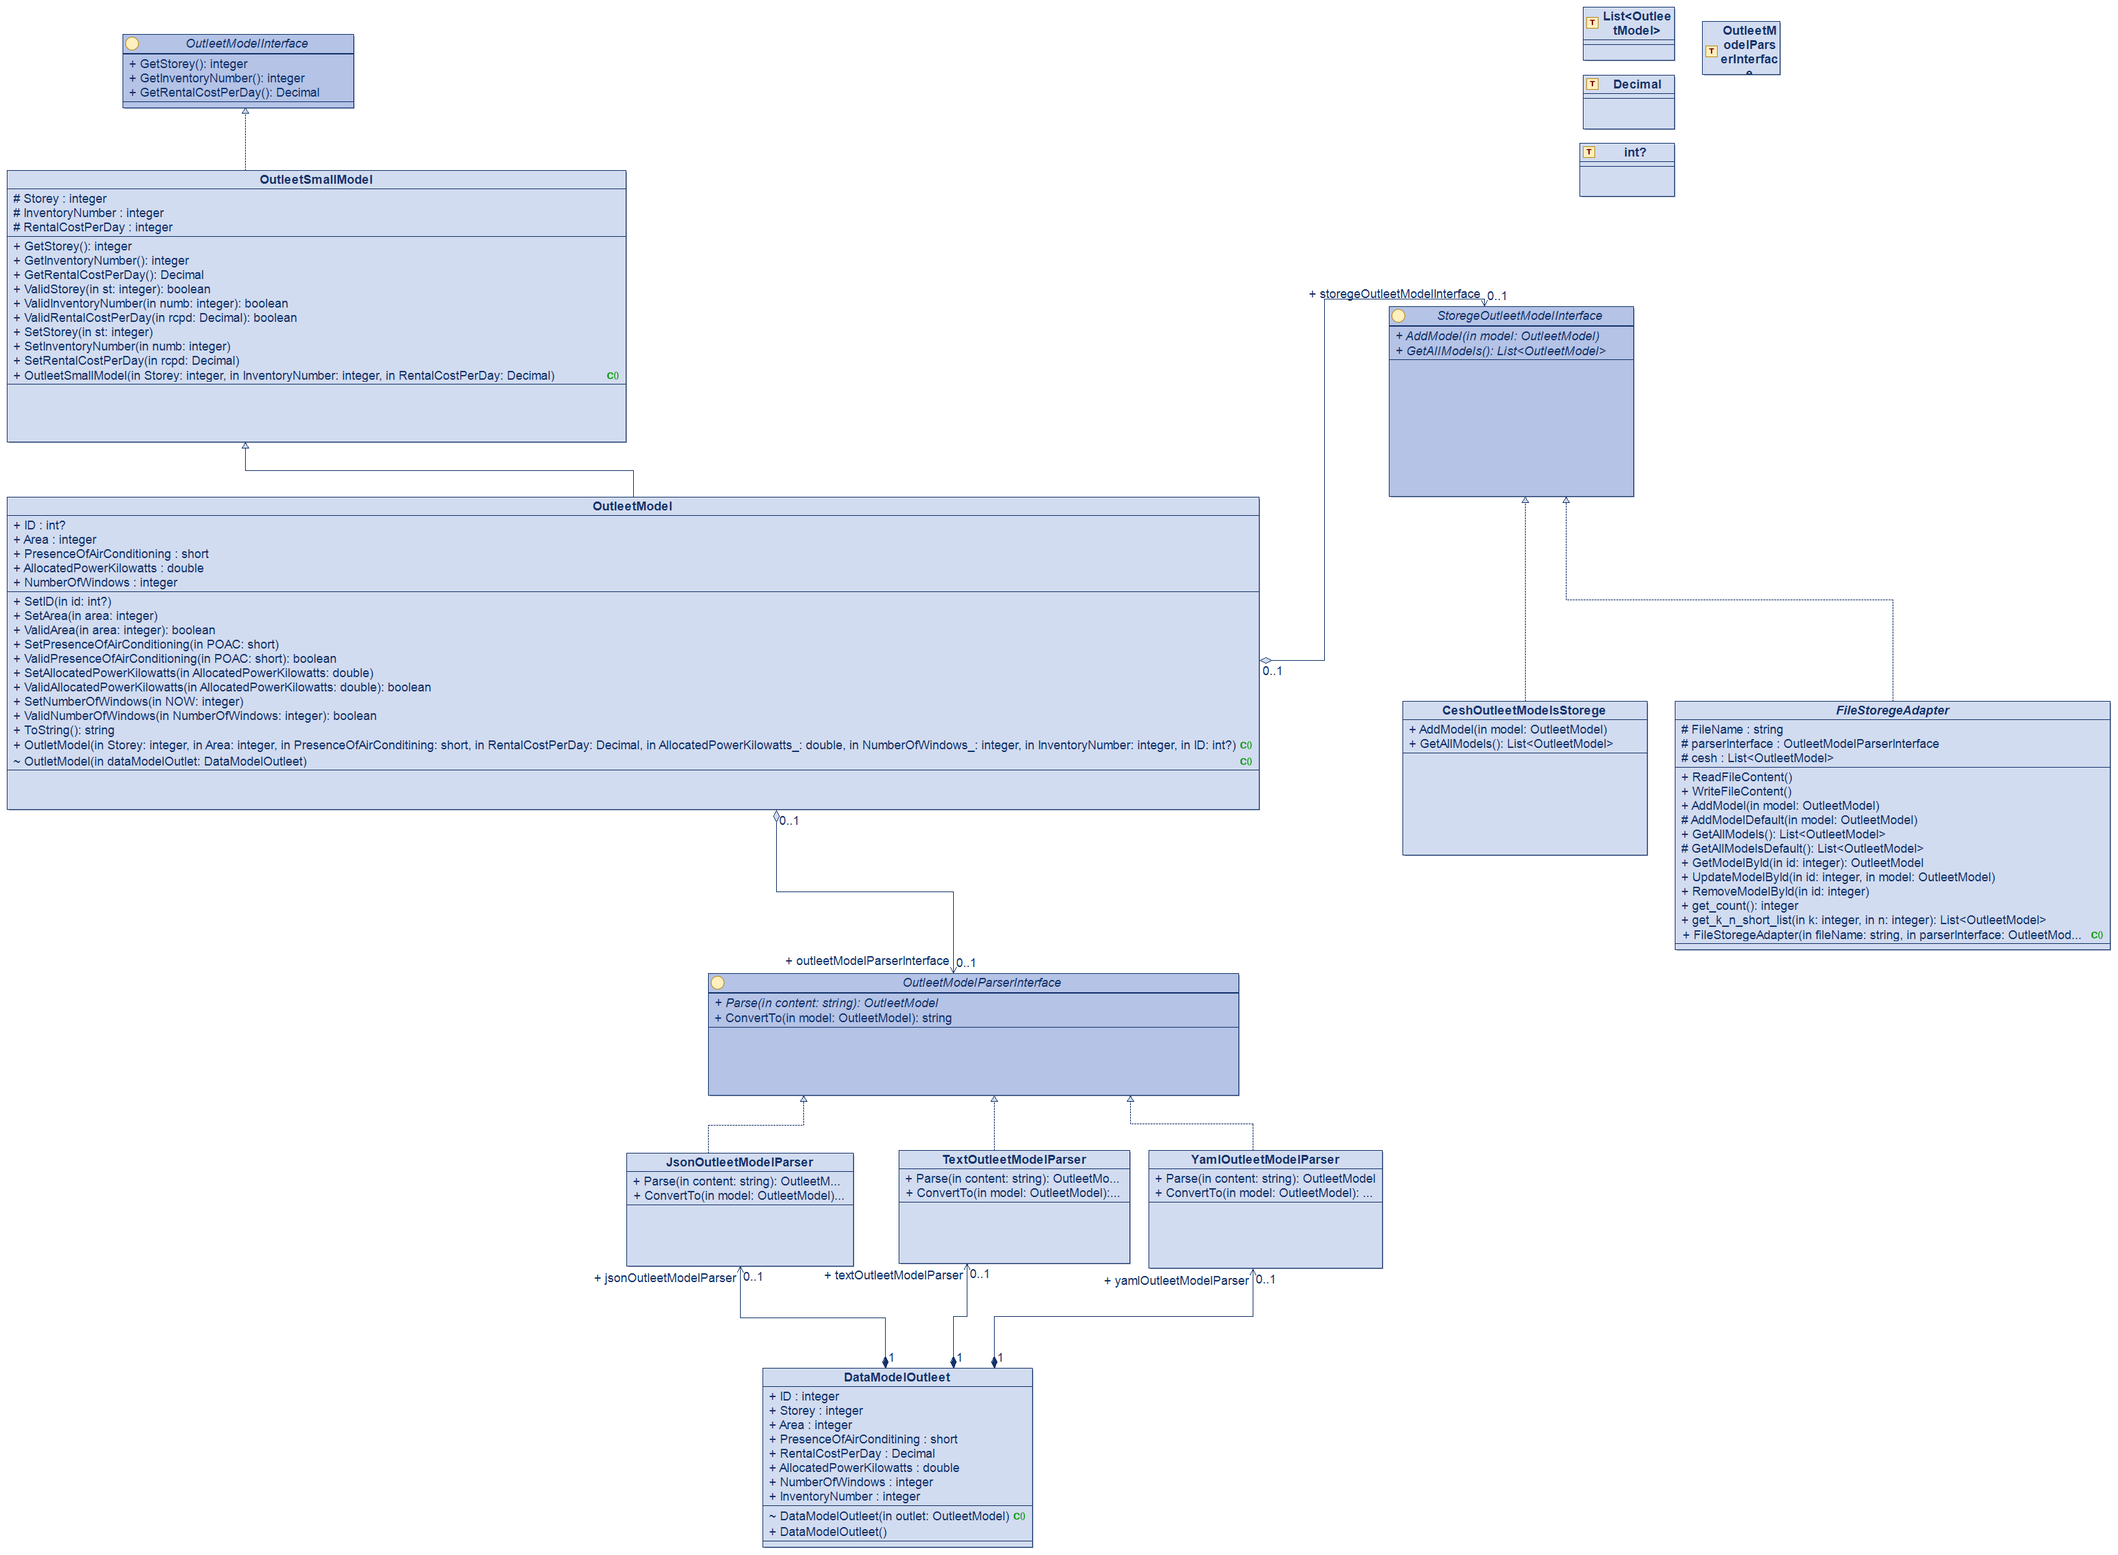
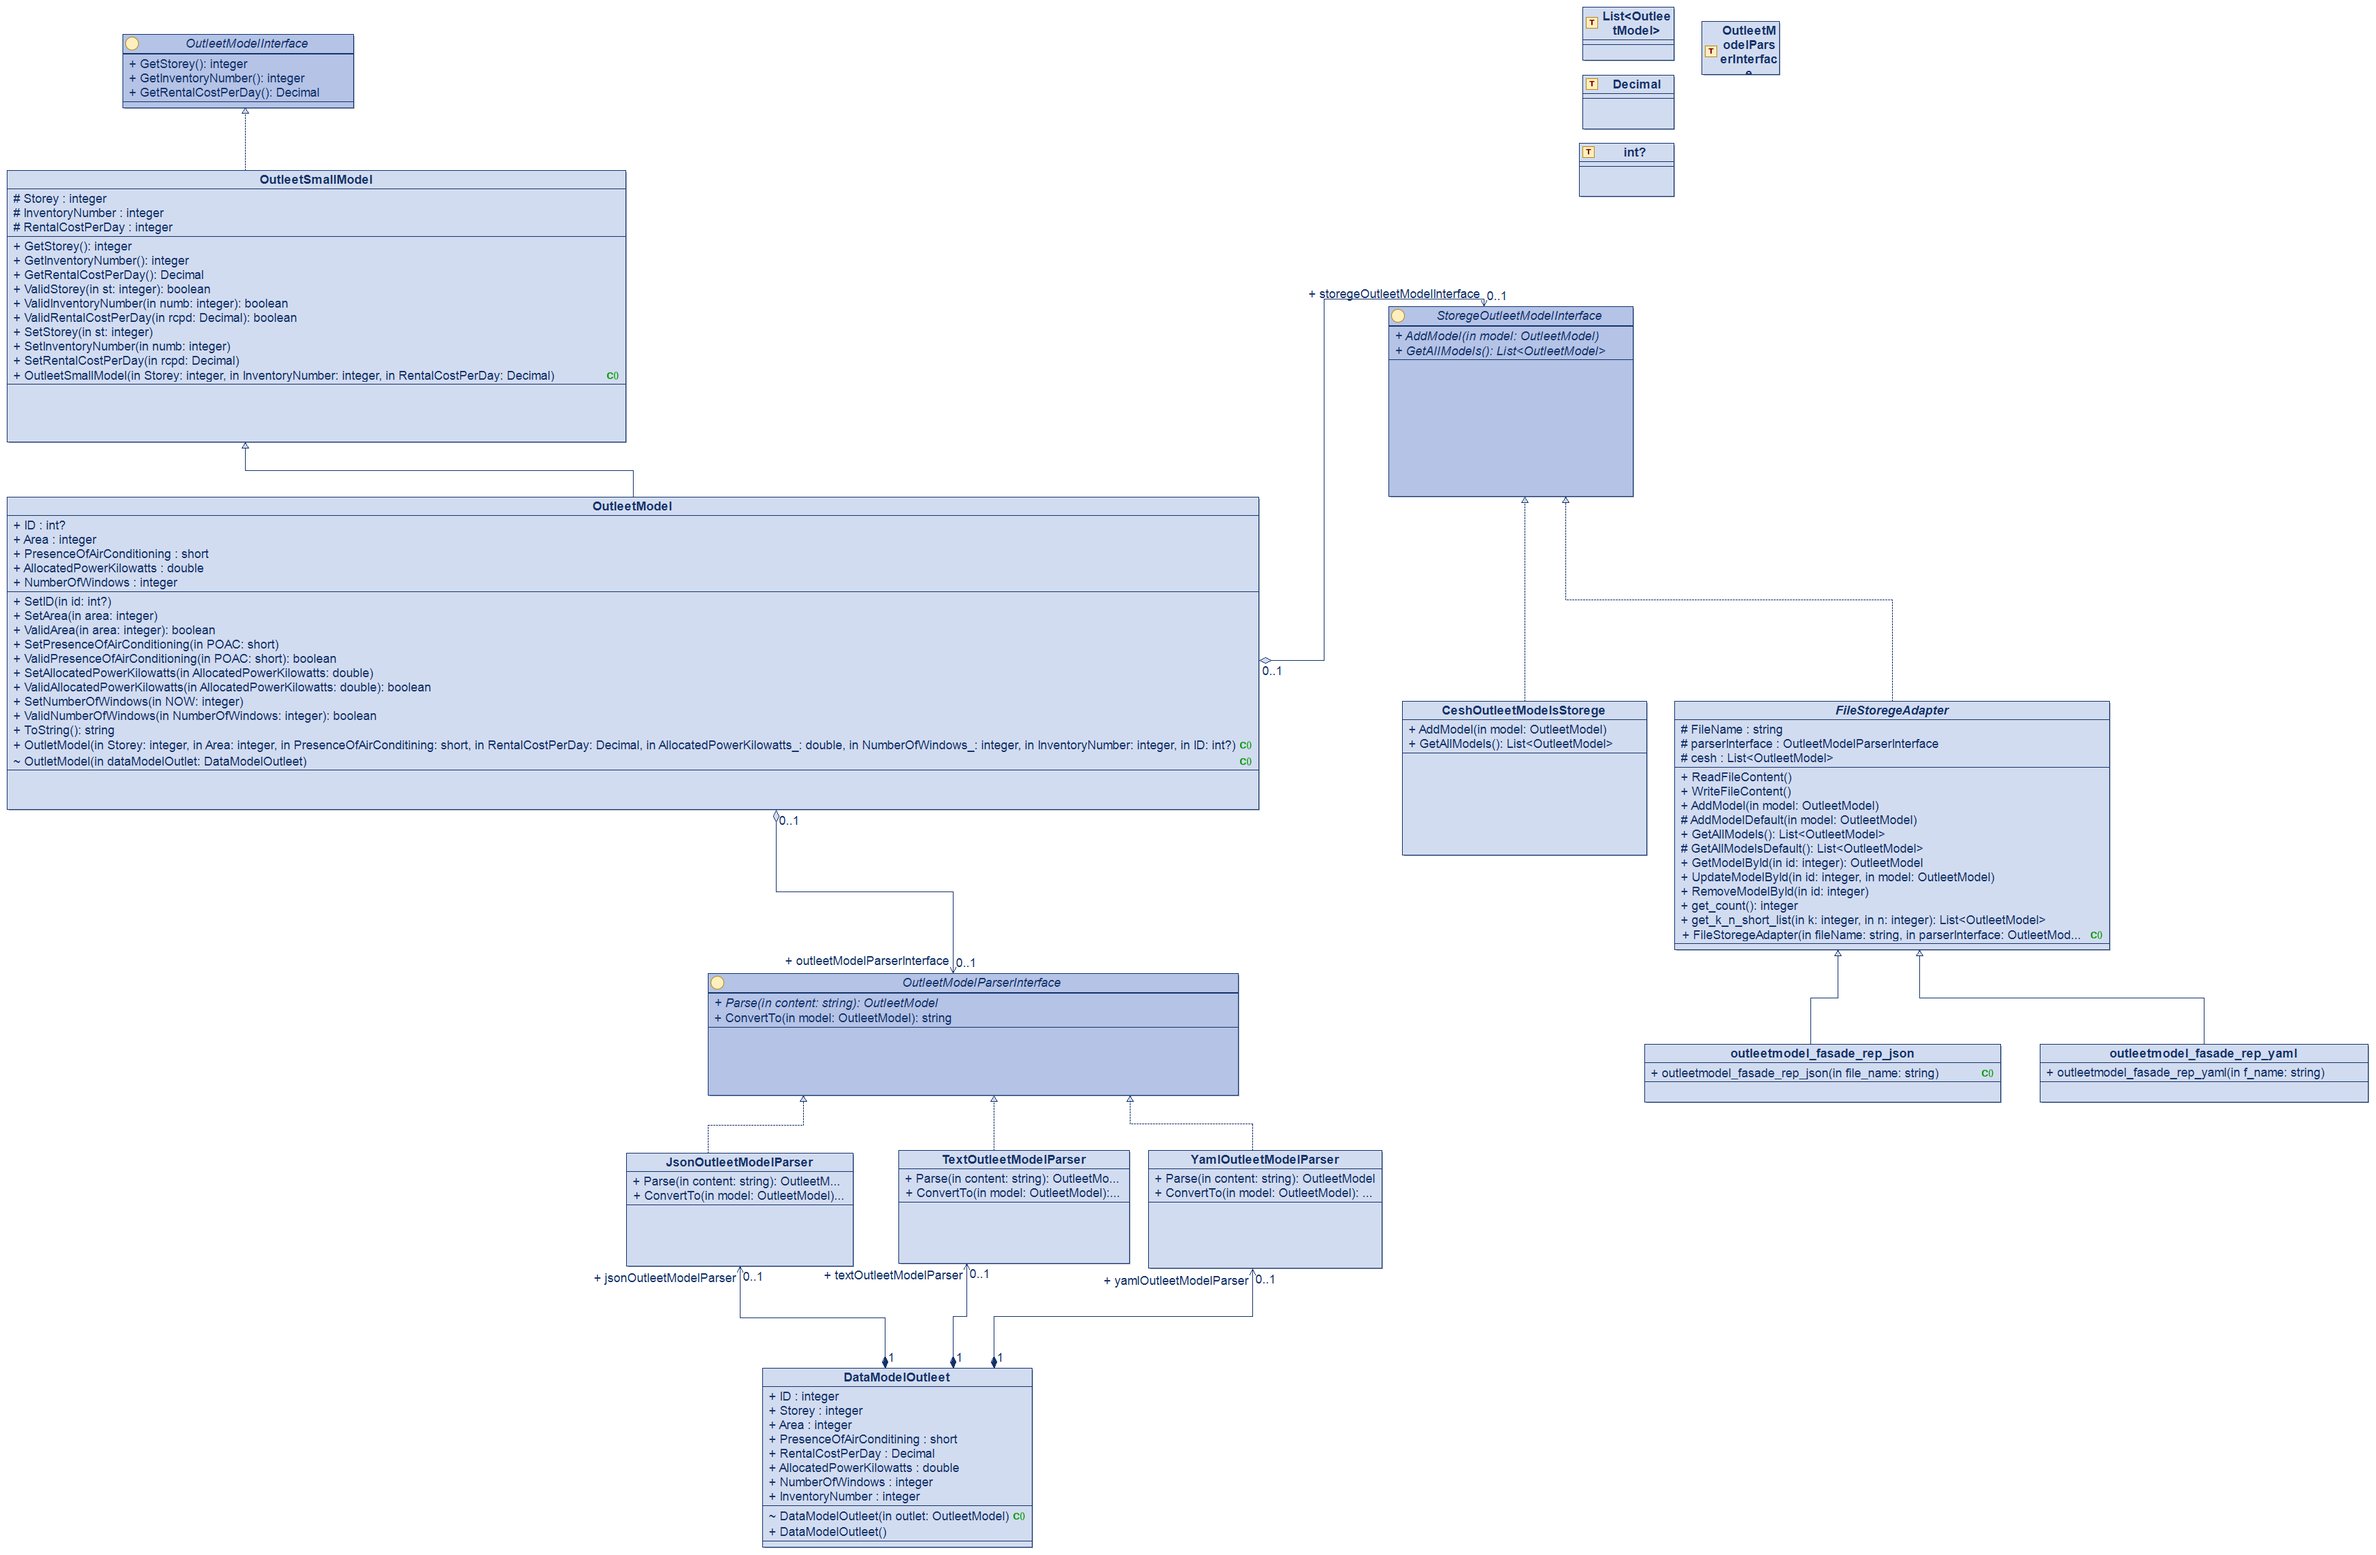
ADD JSON_REP,YAML_REP to diagram class

diff --git a/Application/ApplicationRentalOfPremises/obj/Debug/net5.0/ApplicationRentalOfPremises.AssemblyInfo.cs b/Application/ApplicationRentalOfPremises/obj/Debug/net5.0/ApplicationRentalOfPremises.AssemblyInfo.cs
@@ -14,7 +14,7 @@ using System.Reflection;
 [assembly: System.Reflection.AssemblyCompanyAttribute("ApplicationRentalOfPremises")]
 [assembly: System.Reflection.AssemblyConfigurationAttribute("Debug")]
 [assembly: System.Reflection.AssemblyFileVersionAttribute("1.0.0.0")]
-[assembly: System.Reflection.AssemblyInformationalVersionAttribute("1.0.0+9545dab36416905486310bd255760c5a444ea774")]
+[assembly: System.Reflection.AssemblyInformationalVersionAttribute("1.0.0+c384f58514f00e8cb46ce28a608458e3493e4a2f")]
 [assembly: System.Reflection.AssemblyProductAttribute("ApplicationRentalOfPremises")]
 [assembly: System.Reflection.AssemblyTitleAttribute("ApplicationRentalOfPremises")]
 [assembly: System.Reflection.AssemblyVersionAttribute("1.0.0.0")]
